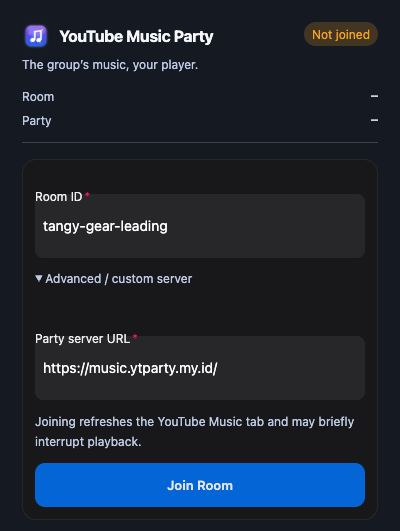
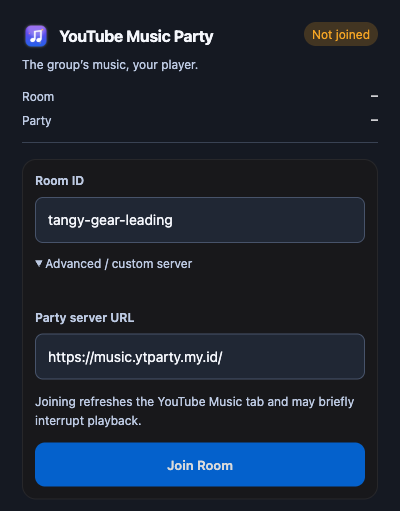
fix(extension): use clean labels above compact join fields

diff --git a/apps/extension/src/App.tsx b/apps/extension/src/App.tsx
@@ -5,7 +5,6 @@ import {
     CardBody,
     Chip,
     Divider,
-    Input,
     Spinner,
     Switch,
 } from "@heroui/react";
@@ -525,35 +524,36 @@ function App() {
                                             void joinRoom();
                                         }}
                                     >
-                                        <Input
-                                            label="Room ID"
-                                            labelPlacement="outside"
+                                        <label className="join-field">
+                                            <span>Room ID</span>
+                                        <input
+                                            aria-label="Room ID"
                                             placeholder="From Telegram /register"
-                                            size="sm"
-                                            isRequired
+                                            required
                                             value={roomIdInput}
-                                            isDisabled={busy || connecting}
-                                            onValueChange={(value) => {
+                                            disabled={busy || connecting}
+                                            onChange={(event) => {
                                                 formEdited.current.roomId = true;
-                                                setRoomIdInput(value);
+                                                setRoomIdInput(event.target.value);
                                             }}
                                         />
+                                        </label>
                                         <details>
                                             <summary className="cursor-pointer text-xs text-zinc-400">Advanced / custom server</summary>
-                                            <Input
-                                                className="mt-2"
-                                                label="Party server URL"
-                                                labelPlacement="outside"
-                                                size="sm"
+                                            <label className="join-field join-server-field">
+                                                <span>Party server URL</span>
+                                            <input
+                                                aria-label="Party server URL"
                                                 type="url"
-                                                isRequired
+                                                required
                                                 value={partyUrlInput}
-                                                isDisabled={busy || connecting}
-                                                onValueChange={(value) => {
+                                                disabled={busy || connecting}
+                                                onChange={(event) => {
                                                     formEdited.current.partyUrl = true;
-                                                    setPartyUrlInput(value);
+                                                    setPartyUrlInput(event.target.value);
                                                 }}
                                             />
+                                            </label>
                                         </details>
                                         <p className="text-xs text-zinc-400 leading-relaxed">Joining refreshes the YouTube Music tab and may briefly interrupt playback.</p>
                                         <Button

diff --git a/apps/web-landing/public/index.html b/apps/web-landing/public/index.html
@@ -53,7 +53,7 @@
             </ol>
             <p class="room-note"><strong>Room busy?</strong> Leave on the existing player before choosing <strong>Retry join</strong>. Joining never replaces that player. <a href="/support">Get help with joining, multiple tabs, or unconfirmed admission.</a></p>
         </div>
-        <div class="setup-evidence"><figure class="join-figure"><a href="/popup-join.webp" aria-label="View the full-size extension join form"><img src="/popup-join.webp" alt="Extension join form showing Room ID, optional public server URL, and Join Room" width="400" height="531" loading="lazy"></a><figcaption>Paste your Room ID, then choose Join Room. <a href="/gallery#joining">See all setup screenshots</a>.</figcaption></figure></div>
+        <div class="setup-evidence"><figure class="join-figure"><a href="/popup-join.webp" aria-label="View the full-size extension join form"><img src="/popup-join.webp" alt="Extension join form showing Room ID, optional public server URL, and Join Room" width="400" height="511" loading="lazy"></a><figcaption>Paste your Room ID, then choose Join Room. <a href="/gallery#joining">See all setup screenshots</a>.</figcaption></figure></div>
     </section>
     <section class="hosting-section" aria-labelledby="hosting-title">
         <div><h2 id="hosting-title">Your room.<br>Your choice of server.</h2><p>Custom party servers are supported. If you’d rather host your own, the open-source backend supports PostgreSQL and SQLite.</p><a class="text-action" href="https://github.com/faytranevozter/telegram-music-party/blob/main/docs/database.md">Read the database &amp; deployment guide</a></div>

diff --git a/apps/web-landing/public/gallery.html b/apps/web-landing/public/gallery.html
@@ -30,7 +30,7 @@
         <div class="gallery-copy"><h2 id="joining-title">From Room ID to Join Room</h2><p>Get your own ID with <code>/register</code>, then paste it into the extension popup. The current bot room is <code>melodic-name-island</code>; the earlier setup example uses <code>tangy-gear-leading</code>.</p><a class="text-action" href="/#setup">Read the complete setup guide</a></div>
         <div class="gallery-setup">
             <figure class="gallery-shot"><div class="image-stage"><a href="/telegram-room.webp"><img src="/telegram-room.webp" alt="Full Telegram mobile window with the registered room melodic-name-island" width="430" height="932" loading="lazy"></a></div><figcaption>Room confirmation in its full chat window.</figcaption></figure>
-            <figure class="gallery-shot"><div class="image-stage"><a href="/popup-join.webp"><img src="/popup-join.webp" alt="Extension join form with example Room ID, public host, and Join Room" width="400" height="531" loading="lazy"></a></div><figcaption>The extension setup form at native width on desktop.</figcaption></figure>
+            <figure class="gallery-shot"><div class="image-stage"><a href="/popup-join.webp"><img src="/popup-join.webp" alt="Extension join form with example Room ID, public host, and Join Room" width="400" height="511" loading="lazy"></a></div><figcaption>The extension setup form at native width on desktop.</figcaption></figure>
         </div>
     </section>
     <section class="gallery-section" aria-labelledby="action-title">

diff --git a/apps/extension/src/index.css b/apps/extension/src/index.css
@@ -42,6 +42,10 @@ body { max-height: 600px; overflow-y: auto; overflow-x: hidden; }
 .player-settings > div { background: transparent; border: 0; }
 .party-popup :focus-visible { outline: 2px solid #ADC2FF; outline-offset: 3px; }
 .party-popup summary { min-height: 44px; }
-.party-popup form [data-slot="input-wrapper"] { min-height: 64px; }
-.party-popup form input { min-height: 24px; }
+.join-field { display: grid; gap: 8px; }
+.join-field > span { color: #BDCAE3; font-size: 12px; font-weight: 600; line-height: 1.4; }
+.join-field input { width: 100%; height: 46px; padding: 11px 12px; border: 1px solid #47536A; border-radius: 8px; background: #202734; color: #F5F7FC; font: inherit; outline-offset: 3px; }
+.join-field input::placeholder { color: #AAB6CA; }
+.join-field input:disabled { opacity: .6; }
+.join-server-field { margin-top: 10px; }
 @media (prefers-reduced-motion: reduce) { .party-popup *, .party-popup *::before, .party-popup *::after { animation: none !important; transition: none !important; } }
